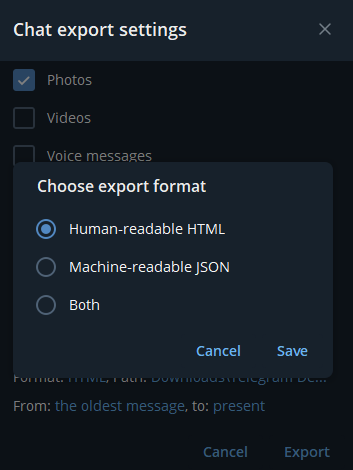
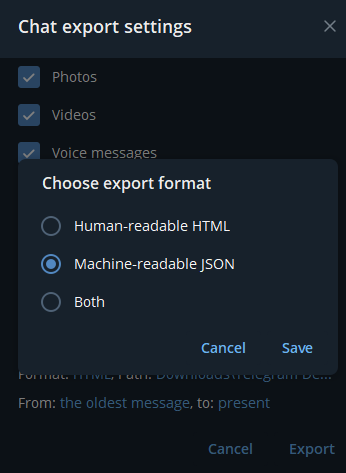
docs: update export guides with new screenshots
Add step by step Telegram and WhatsApp Desktop screenshots, the date
range option and a note about media shown as omitted.

diff --git a/src/i18n/messages.ts b/src/i18n/messages.ts
@@ -234,24 +234,36 @@ const en: Strings = {
         name: 'Telegram',
         steps: [
           'Open the chat in Telegram Desktop.',
-          'Menu ⋮ → Export chat history. Uncheck photos and videos, they are not needed.',
+          'Menu ⋮ → Export chat history.',
           'Click HTML next to Format, choose Machine-readable JSON and save.',
-          'Export, then open result.json here.',
+          'Optional: click "the oldest message" or "present" to pick a date range.',
+          'Optional: keep Stickers and GIFs checked for previews. Photos and videos are not needed.',
+          'Export, then open result.json here, or the whole folder to see sticker previews.',
         ],
         images: [
+          { src: 'tutorial/telegram-menu.png', alt: 'Chat menu with Export chat history' },
+          { src: 'tutorial/telegram-settings.png', alt: 'Export settings with Format set to HTML' },
           {
-            src: 'tutorial/telegram-settings.png',
-            alt: 'Export settings, with Format set to HTML',
+            src: 'tutorial/telegram-format.png',
+            alt: 'Format dialog with Machine-readable JSON selected',
           },
-          { src: 'tutorial/telegram-format.png', alt: 'Format dialog with Machine-readable JSON' },
+          { src: 'tutorial/telegram-json.png', alt: 'Export settings with Format set to JSON' },
+          { src: 'tutorial/telegram-dates.png', alt: 'Calendar to choose the date range' },
         ],
       },
       {
         name: 'WhatsApp',
         steps: [
-          'Open the chat on your phone.',
-          'Menu → More → Export chat.',
-          'Include media to classify photos, audio and stickers.',
+          'Open the chat in WhatsApp Desktop.',
+          'Menu ⋮ → Export chat.',
+          'Choose All messages, or Custom date range to pick dates.',
+          'Export, then open the .zip here.',
+          'Desktop exports do not include media, so it appears as "omitted". To classify photos and audio, export from your phone with media included.',
+        ],
+        images: [
+          { src: 'tutorial/whatsapp-menu.png', alt: 'Chat menu with Export chat' },
+          { src: 'tutorial/whatsapp-all.png', alt: 'Export dialog with All messages selected' },
+          { src: 'tutorial/whatsapp-range.png', alt: 'Export dialog with a custom date range' },
         ],
       },
     ],
@@ -497,27 +509,42 @@ const es: Strings = {
         name: 'Telegram',
         steps: [
           'Abre el chat en Telegram Desktop.',
-          'Menú ⋮ → Exportar historial del chat. Desmarca fotos y videos, no hacen falta.',
+          'Menú ⋮ → Export chat history.',
           'Haz clic en HTML junto a Format, elige Machine-readable JSON y guarda.',
-          'Exporta y abre aquí el archivo result.json.',
+          'Opcional: haz clic en "the oldest message" o "present" para elegir un rango de fechas.',
+          'Opcional: deja marcados Stickers y GIFs para ver sus vistas previas. Fotos y videos no hacen falta.',
+          'Exporta y abre aquí result.json, o la carpeta completa para ver las vistas previas de stickers.',
         ],
         images: [
+          { src: 'tutorial/telegram-menu.png', alt: 'Menú del chat con Export chat history' },
           {
             src: 'tutorial/telegram-settings.png',
             alt: 'Ajustes de exportación con el formato en HTML',
           },
           {
             src: 'tutorial/telegram-format.png',
-            alt: 'Diálogo de formato con Machine-readable JSON',
+            alt: 'Diálogo de formato con Machine-readable JSON elegido',
           },
+          {
+            src: 'tutorial/telegram-json.png',
+            alt: 'Ajustes de exportación con el formato en JSON',
+          },
+          { src: 'tutorial/telegram-dates.png', alt: 'Calendario para elegir el rango de fechas' },
         ],
       },
       {
         name: 'WhatsApp',
         steps: [
-          'Abre el chat en tu teléfono.',
-          'Menú → Más → Exportar chat.',
-          'Incluye archivos multimedia para clasificar fotos, audios y stickers.',
+          'Abre el chat en WhatsApp Desktop.',
+          'Menú ⋮ → Export chat.',
+          'Elige All messages, o Custom date range para escoger fechas.',
+          'Exporta y abre aquí el .zip.',
+          'Desde el escritorio no se incluye multimedia, por eso aparece como "omitted". Para clasificar fotos y audios, exporta desde el celular incluyendo los archivos.',
+        ],
+        images: [
+          { src: 'tutorial/whatsapp-menu.png', alt: 'Menú del chat con Export chat' },
+          { src: 'tutorial/whatsapp-all.png', alt: 'Diálogo de exportación con All messages' },
+          { src: 'tutorial/whatsapp-range.png', alt: 'Diálogo de exportación con rango de fechas' },
         ],
       },
     ],

diff --git a/src/components/Import/Landing.tsx b/src/components/Import/Landing.tsx
@@ -79,7 +79,7 @@ export default function Landing({ error, onFiles, onOpenSaved }: Props) {
         </Typography>
         <Grid container spacing={2}>
           {t.howTo.guides.map(({ name, steps, images }) => (
-            <Grid key={name} size={{ xs: 12, md: 6 }}>
+            <Grid key={name} size={12}>
               <Box
                 sx={{
                   p: 2.5,
@@ -102,7 +102,15 @@ export default function Landing({ error, onFiles, onOpenSaved }: Props) {
                   ))}
                 </Box>
                 {images && (
-                  <Stack direction="row" spacing={1.5} sx={{ mt: 2, alignItems: 'flex-start' }}>
+                  <Box
+                    sx={{
+                      mt: 2,
+                      display: 'grid',
+                      gap: 1.5,
+                      alignItems: 'start',
+                      gridTemplateColumns: 'repeat(auto-fill, minmax(150px, 210px))',
+                    }}
+                  >
                     {images.map(({ src, alt }) => (
                       <Box
                         key={src}
@@ -110,10 +118,10 @@ export default function Landing({ error, onFiles, onOpenSaved }: Props) {
                         src={`${BASE_PATH}/${src}`}
                         alt={alt}
                         loading="lazy"
-                        sx={{ width: 'calc(50% - 6px)', height: 'auto', borderRadius: 1 }}
+                        sx={{ width: '100%', height: 'auto', borderRadius: 1 }}
                       />
                     ))}
-                  </Stack>
+                  </Box>
                 )}
               </Box>
             </Grid>
